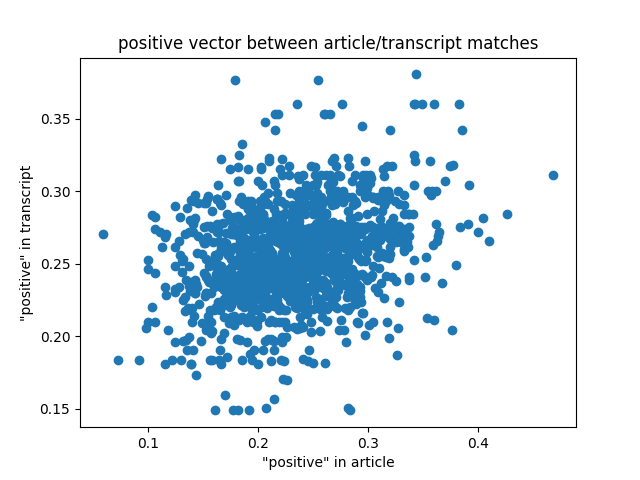
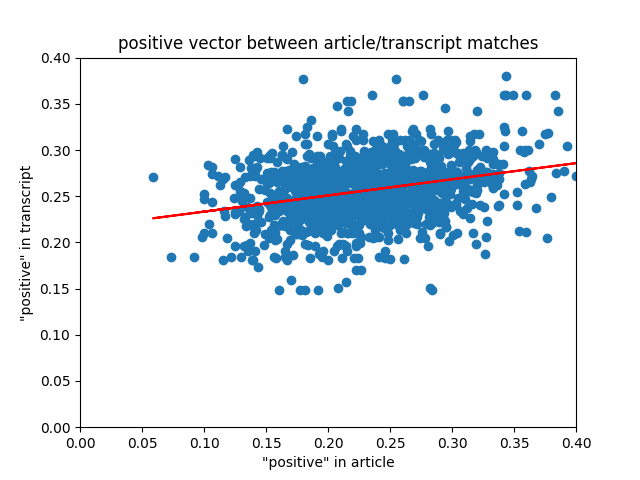
Standardize axes, add line of best fit to scatter plots

diff --git a/visualization.py b/visualization.py
@@ -184,12 +184,21 @@ def emotion_scatter_plot(filename, emotion):
             temp = eval(row['transcript_frequency'])
             transcript_emotion = temp[emotion]
             transcript_vectors.append(transcript_emotion)
+    x = np.array(article_vectors)
+    y = np.array(transcript_vectors)
+
+    slope, intercept = np.polyfit(x, y, 1)
+
+    line_of_best_fit = slope * x + intercept
     # plot!!
     fig, ax = plt.subplots()
     ax.scatter(article_vectors, transcript_vectors)
+    plt.plot(x, line_of_best_fit, color='red', label='Line of Best Fit')
 
     # labels
     plt.ylabel(f'\"{emotion}\" in transcript')
+    plt.xlim(0, 0.40)
+    plt.ylim(0, 0.40)
     plt.xlabel(f'\"{emotion}\" in article')
     plt.title(f'{emotion} vector between article/transcript matches')
 
